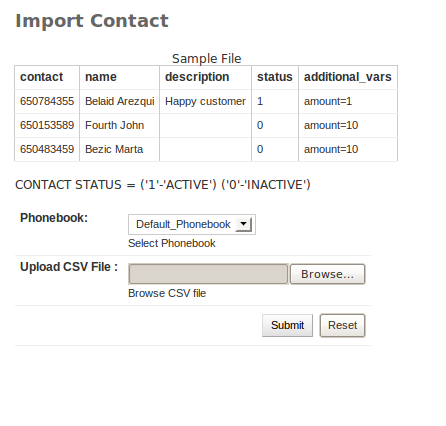
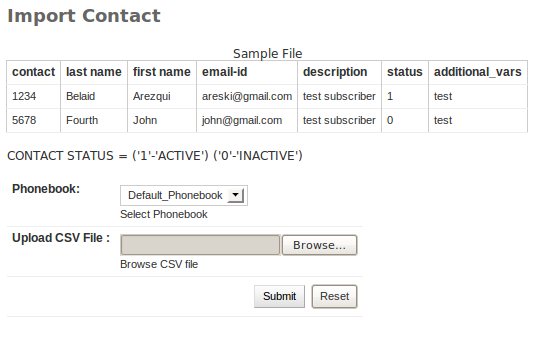
updated doc

diff --git a/newfies/templates/admin/dialer_campaign/contact/import_contact.html b/newfies/templates/admin/dialer_campaign/contact/import_contact.html
@@ -15,7 +15,7 @@
 <br/>
 
 <table border=1>
-<caption>{% trans "Sample File" %}</caption>s
+<caption>{% trans "Sample File" %}</caption>
 <tr>
     <th>{% trans "contact" %}</th>
     <th>{% trans "last name" %}</th>

diff --git a/newfies/dialer_cdr/admin.py b/newfies/dialer_cdr/admin.py
@@ -1,7 +1,6 @@
 from django.contrib import admin
 from django.conf.urls.defaults import *
-from django.http import HttpResponseRedirect, HttpResponse,\
-    HttpResponseRedirect
+from django.http import HttpResponse
 from django.utils.translation import ugettext as _
 from django.db.models import *
 from dialer_cdr.models import *
@@ -166,6 +165,10 @@ class VoIPCallAdmin(admin.ModelAdmin):
         **Important variable**:
 
             * request.session['voipcall_record_qs'] - stores voipcall query set
+
+        **Exported fields**: [user, callid, callerid, phone_number,
+                              starting_date, sessiontime, disposition,
+                              used_gateway]
         """
         # get the response object, this can be used as a stream.
         response = HttpResponse(mimetype='text/csv')

diff --git a/newfies/dialer_cdr/views.py b/newfies/dialer_cdr/views.py
@@ -244,6 +244,9 @@ def export_voipcall_report(request):
     **Important variable**:
 
         * ``request.session['voipcall_record_qs']`` - stores voipcall query set
+
+    **Exported fields**: [user, callid, callerid, phone_number, starting_date,
+                          sessiontime, disposition, used_gateway]
     """
     # get the response object, this can be used as a stream.
     response = HttpResponse(mimetype='text/csv')

diff --git a/newfies/dialer_campaign/views.py b/newfies/dialer_campaign/views.py
@@ -703,6 +703,7 @@ def contact_list(request):
     **Attributes**:
 
         * ``template`` - frontend/contact/list.html
+        * ``form`` - ContactSearchForm
 
     **Logic Description**:
 

diff --git a/docs/source/developer-doc/views.rst b/docs/source/developer-doc/views.rst
@@ -7,157 +7,157 @@ Newfies Views
 
 .. _index-view:
 
-:class:`views.index`
---------------------
+:class:`index`
+--------------
 
   .. autofunction:: index
 
 .. _login-view:
 
-:class:`views.login_view`
--------------------------
+:class:`login_view`
+-------------------
 
   .. autofunction:: login_view
 
 .. _cust_password_reset:
 
-:class:`views.cust_password_reset`
-----------------------------------
+:class:`cust_password_reset`
+----------------------------
 
   .. autofunction:: cust_password_reset
 
 
 .. _cust_password_reset_done:
 
-:class:`views.cust_password_reset_done`
----------------------------------------
+:class:`cust_password_reset_done`
+---------------------------------
 
   .. autofunction:: cust_password_reset_done
 
 
 .. _cust_password_reset_confirm:
 
-:class:`views.cust_password_reset_confirm`
-------------------------------------------
+:class:`cust_password_reset_confirm`
+------------------------------------
 
   .. autofunction:: cust_password_reset_confirm
 
 
 .. _common_send_notification:
 
-:class:`views.common_send_notification`
----------------------------------------
+:class:`common_send_notification`
+---------------------------------
 
   .. autofunction:: common_send_notification
 
 
 .. _common_campaign_status:
 
-:class:`views.common_campaign_status`
--------------------------------------
+:class:`common_campaign_status`
+-------------------------------
 
   .. autofunction:: common_campaign_status
 
 
 .. _phonebook_list:
 
-:class:`views.phonebook_list`
------------------------------
+:class:`phonebook_list`
+-----------------------
 
   .. autofunction:: phonebook_list
 
 
 .. _phonebook_grid:
 
-:class:`views.phonebook_grid`
------------------------------
+:class:`phonebook_grid`
+-----------------------
 
   .. autofunction:: phonebook_grid
 
 
 .. _phonebook_add:
 
-:class:`views.phonebook_add`
-----------------------------
+:class:`phonebook_add`
+----------------------
 
   .. autofunction:: phonebook_add
 
 
  .. _phonebook_change:
 
-:class:`views.phonebook_change`
--------------------------------
+:class:`phonebook_change`
+-------------------------
 
   .. autofunction:: phonebook_change
 
 
 .. _contact_list:
 
-:class:`views.contact_list`
----------------------------
+:class:`contact_list`
+---------------------
 
   .. autofunction:: contact_list
 
 
 .. _contact_grid:
 
-:class:`views.contact_grid`
----------------------------
+:class:`contact_grid`
+---------------------
 
   .. autofunction:: contact_grid
 
 
 .. _contact_add:
 
-:class:`views.contact_add`
---------------------------
+:class:`contact_add`
+--------------------
 
   .. autofunction:: contact_add
 
 
  .. _contact_change:
 
-:class:`views.contact_change`
------------------------------
+:class:`contact_change`
+-----------------------
 
   .. autofunction:: contact_change
 
 
 .. _contact_import:
 
-:class:`views.contact_import`
------------------------------
+:class:`contact_import`
+-----------------------
 
   .. autofunction:: contact_import
 
 
 .. _campaign_list:
 
-:class:`views.campaign_list`
-----------------------------
+:class:`campaign_list`
+----------------------
 
   .. autofunction:: campaign_list
 
 
 .. _campaign_grid:
 
-:class:`views.campaign_grid`
-----------------------------
+:class:`campaign_grid`
+----------------------
 
   .. autofunction:: campaign_grid
 
 
 .. _campaign_add:
 
-:class:`views.campaign_add`
----------------------------
+:class:`campaign_add`
+---------------------
 
   .. autofunction:: campaign_add
 
 
 .. _campaign_change:
 
-:class:`views.campaign_change`
-------------------------------
+:class:`campaign_change`
+------------------------
 
   .. autofunction:: campaign_change
